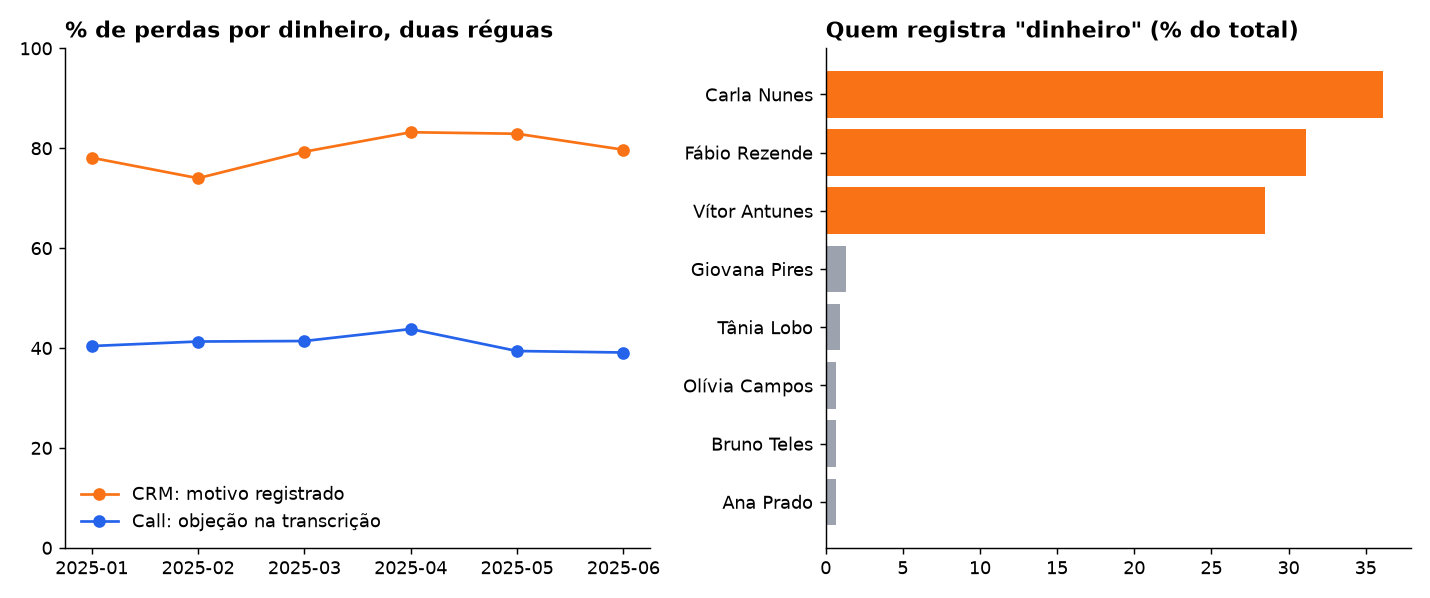
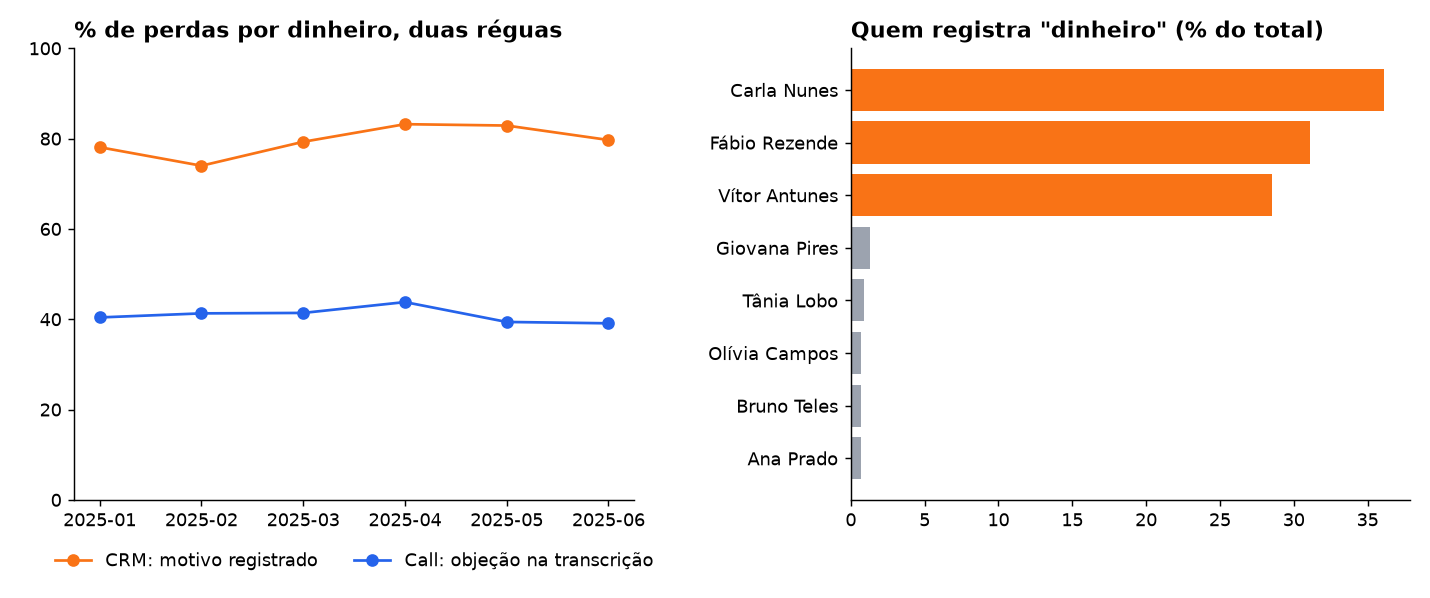
fix(graficos): meses legíveis e legenda fora das barras no estudo 04

Changed region(s): [[0.0, 0.0301, 0.9846, 0.9632], [0.5846, 0.903, 0.9846, 0.9632], [0.5538, 0.9331, 0.5846, 0.9632]]

diff --git a/run_all.py b/run_all.py
@@ -57,7 +57,7 @@ def grafico_02(r: dict[str, pd.DataFrame], pasta) -> None:
     a.plot(call.mes, call.pct_dinheiro_call, marker="o", color=COR, label="Call: objeção na transcrição")
     a.set_ylim(0, 100)
     a.set_title("% de perdas por dinheiro, duas réguas")
-    a.legend(frameon=False, loc="lower left")
+    a.legend(frameon=False, loc="upper center", bbox_to_anchor=(0.5, -0.08), ncol=2)
     c = r["crm_por_closer"].sort_values("pct_do_total_dinheiro")
     cores = [COR_2 if v > 10 else CINZA for v in c.pct_do_total_dinheiro]
     b.barh(c.closer, c.pct_do_total_dinheiro, color=cores)
@@ -85,9 +85,10 @@ def grafico_04(r: dict[str, pd.DataFrame], pasta) -> None:
     x = range(len(f))
     a.bar([i - 0.2 for i in x], f.leads_pessoa, width=0.4, color=CINZA, label="Leads (pessoa)")
     a.bar([i + 0.2 for i in x], f.mql_pessoa, width=0.4, color=COR, label="MQL (pessoa)")
-    a.set_xticks(list(x), f.mes)
+    meses = ["jan", "fev", "mar", "abr", "mai", "jun", "jul", "ago", "set", "out", "nov", "dez"]
+    a.set_xticks(list(x), [meses[int(str(m)[5:7]) - 1] for m in f.mes])
     a.set_title("Lead e MQL ancorados no primeiro toque")
-    a.legend(frameon=False, loc="lower left")
+    a.legend(frameon=False, loc="upper center", bbox_to_anchor=(0.5, -0.08), ncol=2)
     d = r["destino_do_mql"]
     rotulos = [s.split(". ", 1)[1] for s in d.destino]
     cores = [COR if s.startswith("1") else COR_2 if s.startswith("2") else CINZA for s in d.destino]
